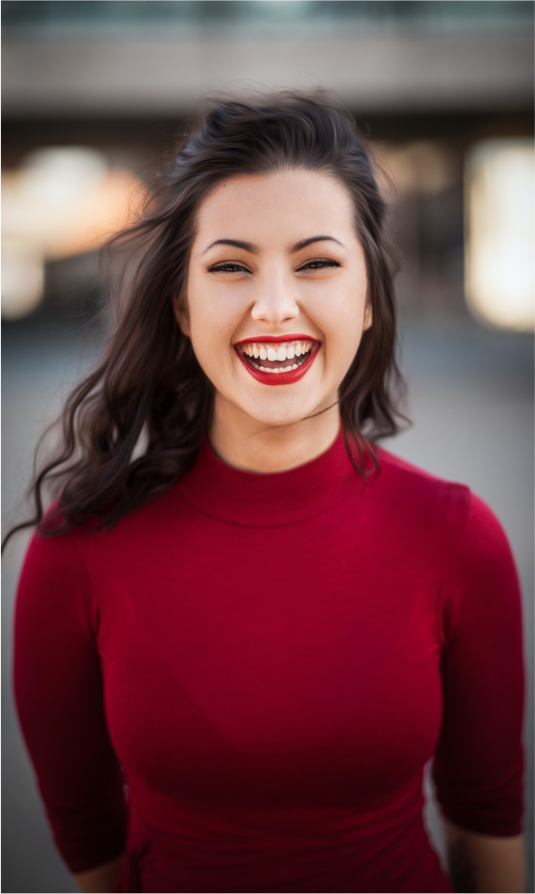
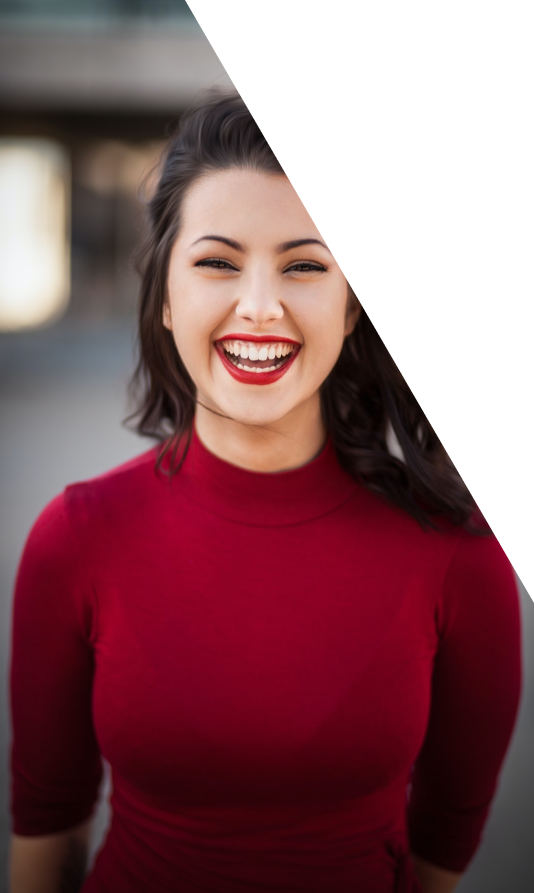
Worked on contact page

diff --git a/src/components/ui/organisms/Contact/GetInTouch/GetInTouch.js b/src/components/ui/organisms/Contact/GetInTouch/GetInTouch.js
@@ -1,0 +1,58 @@
+import getInTouchImage from "./../../../../../assets/images/contact/get-in-touch.png";
+import workingHoursIcon from "./../../../../../assets/icons/working-hours-icon.svg";
+import locationIcon from "./../../../../../assets/icons/location-icon.svg";
+import UniversalOrganism from "../../UniversalOrganism/UniversalOrganism";
+import emailIcon from "./../../../../../assets/icons/email-icon.svg";
+import callIcon from "./../../../../../assets/icons/call-icon.svg";
+import styles from "./GetInTouch.module.sass";
+
+const GetInTouch = () => 
+{
+    return ( 
+        <UniversalOrganism secondClass={styles.getInTouch}>
+            <h3>Contact Us</h3>
+            <h2>Get in Touch Today</h2>
+            <div className={styles.content}>
+               <div className={styles.image}>
+                    <img src={getInTouchImage} alt="" />
+                </div>
+                <div className={styles.contacts}>
+                    <div className={styles.contact}>
+                        <div className={styles.icon}>
+                            <img src={locationIcon} alt="" />
+                        </div>
+                        <div className={styles.text}>
+                        Lagos Branch: 44a Salaudeen Akano, Ogudu gra.Ibadan Branch:  9 Jibowu Crescent, Iyaganku GRA, Ibadan
+                        </div>
+                    </div>
+                    <div className={styles.contact}>
+                        <div className={styles.icon}>
+                            <img src={callIcon} alt="" />
+                        </div>
+                        <div className={styles.text}>
+                        Send us a message or Call: <br />07048643436
+                        </div>
+                    </div>
+                    <div className={styles.contact}>
+                        <div className={styles.icon}>
+                            <img src={emailIcon} alt="" />
+                        </div>
+                        <div className={styles.text}>
+                        Send an email: <br />Jazbethcare2021@gmail.com
+                        </div>
+                    </div>
+                    <div className={styles.contact}>
+                        <div className={styles.icon}>
+                            <img src={workingHoursIcon} alt="" />
+                        </div>
+                        <div className={styles.text}>
+                            Office Hours: <br /> Monday - Friday: 8:30am - 7:00pm <br /> Saturday: 8:00am - 3:00pm
+                        </div>
+                    </div>
+                </div> 
+            </div>
+        </UniversalOrganism>
+     );
+}
+ 
+export default GetInTouch;

diff --git a/src/components/ui/organisms/TestimonialsNew/TestimonialsNew.js b/src/components/ui/organisms/TestimonialsNew/TestimonialsNew.js
@@ -30,13 +30,13 @@ const TestimonialsNew = () =>
                 <div className={styles.innerImage}>
                     <div className={styles.firstTriangle}></div>
                     <img src={innerImg} alt="" />
-                    <div className={styles.secondTriangle}></div>
+                    {/* <div className={styles.secondTriangle}></div> */}
                 </div>
             </div>
             <div className={styles.content}>
                 <h3>Testimonial</h3>
                 <h2>Our wonderful clients say...</h2>
-                <div className={styles.swiperNavControls} id={styles.desktopNavControls}>
+                <div className={styles.swiperNavControls}>
                     <div className={styles.swiperNavControl} ref={navigationPrevRef}>{"<"}</div>
                     <div className={styles.swiperNavControl} ref={navigationNextRef}>{">"}</div>
                 </div>
@@ -126,10 +126,6 @@ const TestimonialsNew = () =>
                         />
                     </SwiperSlide>
                 </Swiper>
-                <div className={styles.swiperNavControls} id={styles.mobileNavControls}>
-                    <div className={styles.swiperNavControl} ref={navigationPrevRef}>{"<"}</div>
-                    <div className={styles.swiperNavControl} ref={navigationNextRef}>{">"}</div>
-                </div>
             </div>
         </div>
      );

diff --git a/src/components/ui/organisms/Contact/AtYourService.js b/src/components/ui/organisms/Contact/AtYourService.js
@@ -1,0 +1,28 @@
+import atYourServiceImage from "./../../../../assets/images/contact/at-your-service.png";
+import UniversalOrganism from "../UniversalOrganism/UniversalOrganism";
+import ImageText from "../ImageText/ImageText";
+
+const AtYourService = () => 
+{
+    let atYourServiceBullets = 
+    [
+        "Jazbeth Care Limited is all about efficiency, which includes our commitment to offering exceptional customer service.",
+        "We understand urgency and we ensure we get back to you on time no matter the circumstance",
+        "Do not hesitate to reach out to us on any issue. We would love to hear from you."
+    ];
+
+    return ( 
+        <UniversalOrganism>
+            <h3>Contact Us</h3>
+            <h2>At Your Service</h2>
+
+            <ImageText
+                mainText="Send us a quick message or call on 07048643436 for your cleaning booking and we would be ready to serve you better.  You can also send us a dm or contact us via WhatsApp . "
+                bullets={atYourServiceBullets}
+                image={atYourServiceImage}
+            />
+        </UniversalOrganism>
+     );
+}
+ 
+export default AtYourService;

diff --git a/src/components/template/ContactTemplate/ContactTemplate.js b/src/components/template/ContactTemplate/ContactTemplate.js
@@ -1,0 +1,25 @@
+import cornerImg from "./../../../assets/images/contact-hero-corner-image.png";
+import middleImg from "./../../../assets/images/contact-hero-middle-image.png";
+import GetInTouch from "../../ui/organisms/Contact/GetInTouch/GetInTouch";
+import AtYourService from "../../ui/organisms/Contact/AtYourService";
+import Hero from "../../ui/organisms/Hero/Hero";
+
+
+const ContactTemplate = () => 
+{
+    return ( 
+        <>
+            <Hero
+                heading="Reach out to us today"
+                description="Lorem ipsum dolor sit amet, consectetur adipiscing elit. Vitae morbi fermentum nulla massa lobortis massa, 
+                feugiat in pellentesque. Sit vestibulum ornare duis orci pellentesque amet, non."
+                cornerImg={cornerImg}
+                middleImg={middleImg}
+            />
+            <GetInTouch/>
+            <AtYourService/>
+        </>
+     );
+}
+ 
+export default ContactTemplate;

diff --git a/src/components/ui/organisms/Contact/GetInTouch/GetInTouch.module.sass b/src/components/ui/organisms/Contact/GetInTouch/GetInTouch.module.sass
@@ -1,0 +1,40 @@
+.getInTouch
+    .content
+        margin-top: 80px
+        display: flex
+        gap: 80px
+
+        .image
+            width: 50%
+
+            img
+                width: 100%
+                height: auto
+
+        .contacts
+            width: 50%
+            display: grid
+            grid-template-columns: 1fr
+            gap: 30px
+
+            .contact
+                display: flex
+                gap: 16px
+
+                .text
+                    font-size: 20px
+                    line-height: 30px
+                    font-weight: 600
+
+@media screen and (max-width: 1000px) 
+    .getInTouch
+        .content
+            margin-top: 40px
+            flex-direction: column!important
+            gap: 40px
+
+            .image
+                width: 100%
+
+            .contacts
+                width: 100%

diff --git a/src/components/ui/organisms/Hero/Hero.module.sass b/src/components/ui/organisms/Hero/Hero.module.sass
@@ -30,13 +30,15 @@
         z-index: 0
         display: flex
         height: 83vh
-        width: 68.3%
-        position: relative
+        // width: 68.3%
+        position: absolute
+        top: 0
+        right: 0
 
         .firstTriangle
             position: absolute
             z-index: 1
-            top: 0px
+            top: -1px
             height: 0px
             border-bottom: 83vh solid transparent 
             border-left: 48vh solid white
@@ -68,6 +70,16 @@
         img
             height: 100% 
             width: 100%
+
+
+// @media screen and (max-width: 1260px) 
+//     .hero  
+//         .contentContainer
+//             .content
+//                 padding: 0px
+
+//         .middleImg
+//             display: none
 
 @media screen and (max-width: 760px) 
     .hero  

diff --git a/src/components/ui/organisms/TestimonialsNew/TestimonialsNew.module.sass b/src/components/ui/organisms/TestimonialsNew/TestimonialsNew.module.sass
@@ -77,11 +77,11 @@
                 color: #890E4F
                 cursor: pointer
 
-        #mobileNavControls
-            display: none
             
 @media screen and (max-width: 1000px) 
     .testimonialsNew
+        min-height: fit-content
+        
         .images
             display: none
 
@@ -97,17 +97,4 @@
                 margin-bottom: 50px
 
             .swiperNavControls
-                margin-top: 52px
-                margin-bottom: 0px
-                display: flex
-                justify-content: center
-                gap: 20px
-
-                .swiperNavControl
-                    font-size: 50px
-            
-            #mobileNavControls
-                display: flex
-
-            #desktopNavControls
                 display: none

diff --git a/src/App.js b/src/App.js
@@ -6,6 +6,7 @@ import Footer from "./components/ui/organisms/Footer/Footer";
 import Services from './components/pages/Services/Services';
 import About from './components/pages/About/About';
 import Home from './components/pages/Home/Home';
+import Contact from './components/pages/Contact/Contact';
 import "./App.sass";
 
 function App() 
@@ -19,7 +20,7 @@ function App()
         <Route path="/" element={<Home />} />
         <Route path="/services" element={<Services/>} />
         <Route path="/about" element={<About/>} />
-        <Route path="/services" element={<Services/>} />
+        <Route path="/contact" element={<Contact/>} />
       </Routes>
       <Footer/>
     </BrowserRouter>    

diff --git a/src/components/ui/organisms/CTA/CTA.module.sass b/src/components/ui/organisms/CTA/CTA.module.sass
@@ -12,6 +12,7 @@
             font-weight: 700
             color: white
             line-height: 150%
+            text-align: left
 
         .description
             font-size: clamp(1rem, 2.75vw, 1.25rem)
@@ -19,6 +20,7 @@
             color: white
             line-height: 130%
             margin-top: 15px
+            text-align: left
     
     .button
         padding: 20px

diff --git a/public/index.html b/public/index.html
@@ -24,7 +24,7 @@
       work correctly both with client-side routing and a non-root public URL.
       Learn how to configure a non-root public URL by running `npm run build`.
     -->
-    <title>React App</title>
+    <title>Jazbeth Care</title>
   </head>
   <body>
     <noscript>You need to enable JavaScript to run this app.</noscript>

diff --git a/src/components/pages/Home/Home.js b/src/components/pages/Home/Home.js
@@ -1,7 +1,14 @@
 import HomeTemplate from "../../template/HomeTemplate/HomeTemplate";
-import styles from "./Home.module.sass";
+import { useEffect } from "react";
 
-const Home = () => {
+const Home = () => 
+{
+    useEffect(() => 
+    {
+        window.scrollTo(0, 0);
+
+    }, []);
+
     return ( 
         <HomeTemplate/>
      );

diff --git a/src/components/ui/molecules/ServiceCard/ServiceCard.module.sass b/src/components/ui/molecules/ServiceCard/ServiceCard.module.sass
@@ -34,3 +34,11 @@
         visibility: visible
         pointer-events: auto
         cursor: pointer
+
+@media screen and (max-width: 1000px) 
+    .serviceCard
+        box-shadow: 0px 10px 20px rgba(135, 14, 79, 0.15)
+        a
+            button
+                visibility: visible
+                pointer-events: auto
